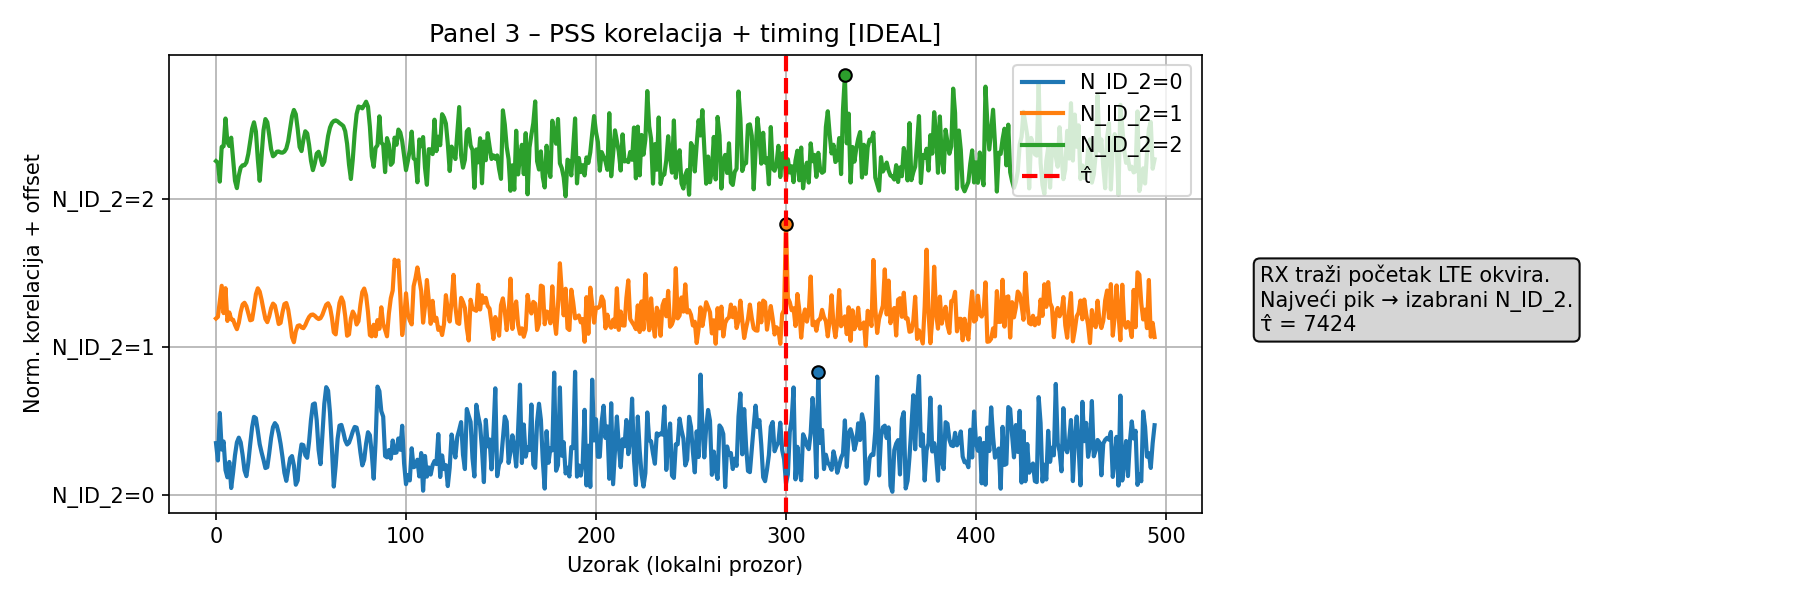
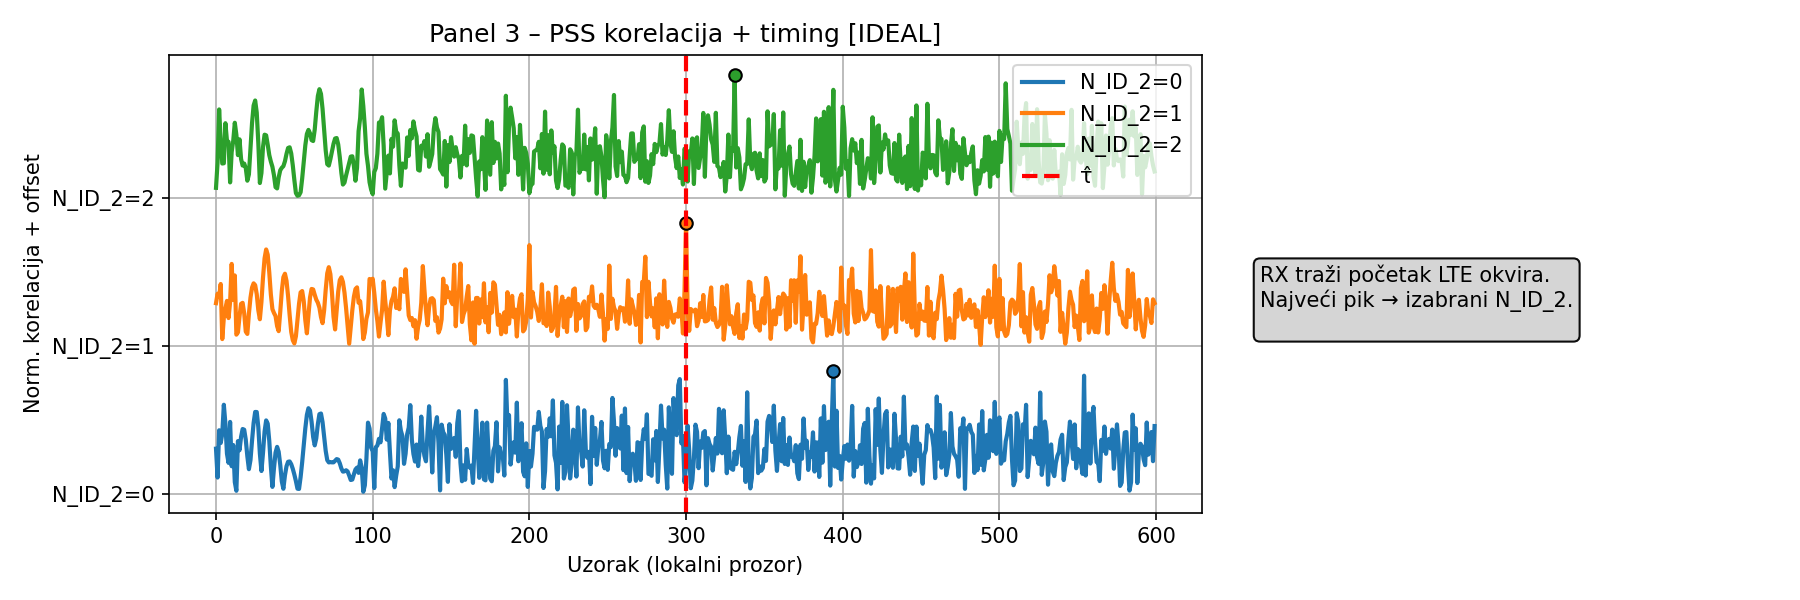
LTE end-to-end demo: TX → Channel → RX with PSS sync and PBCH decoding

diff --git a/examples/lte_system_demo.py b/examples/lte_system_demo.py
@@ -1,3 +1,5 @@
+from __future__ import annotations
+
 """
 LTE end-to-end demonstracija
 TX → Channel → RX
@@ -22,7 +24,6 @@ Analizirani su realni (AWGN + CFO) i idealni (bez šuma i CFO) uslovi rada siste
 """
 
 
-from __future__ import annotations
 import os
 import numpy as np
 import matplotlib.pyplot as plt
@@ -170,7 +171,7 @@ def run_case(case_name: str, snr_db: float, cfo_hz: float):
         fig,
         "RX traži početak LTE okvira.\n"
         "Najveći pik → izabrani N_ID_2.\n"
-        f"τ̂ = {dbg['tau_hat']}"
+        
     )
 
     plt.tight_layout(rect=[0, 0, 0.68, 1])
